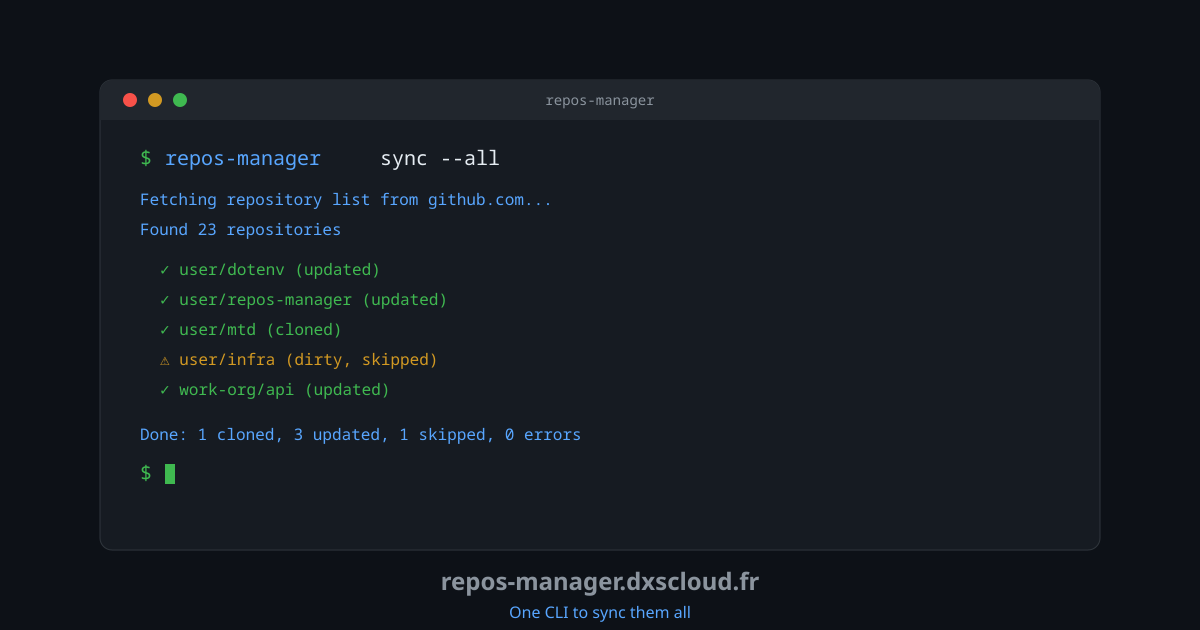
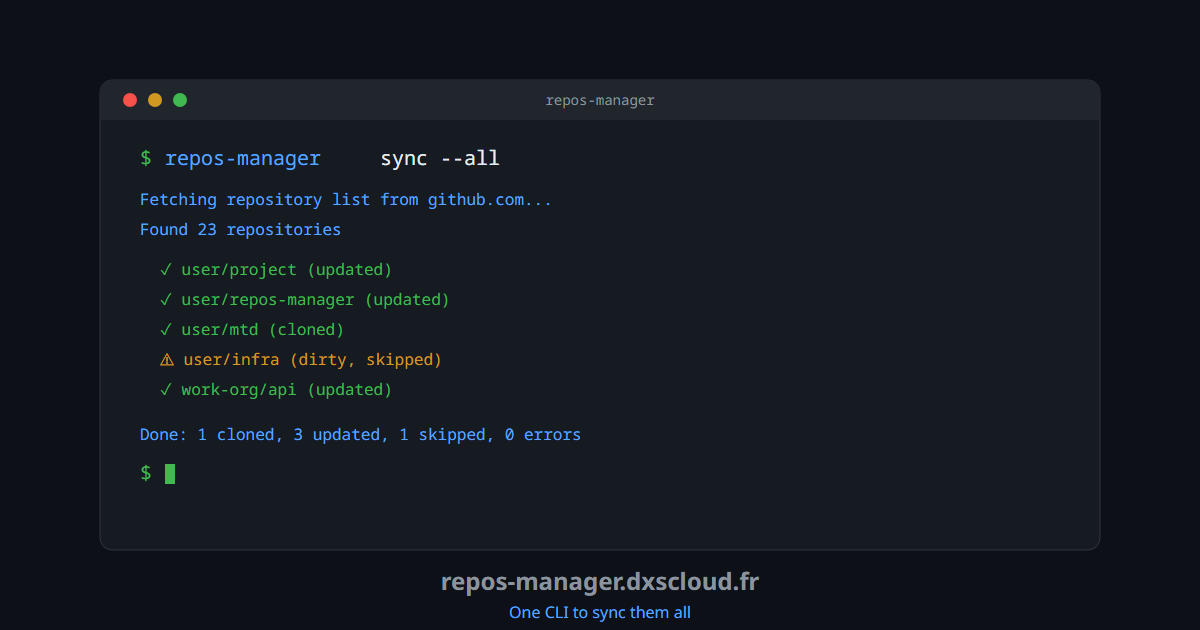
docs: drop the dotenv integration and its example repo names

diff --git a/site/src/docs/advanced.md b/site/src/docs/advanced.md
@@ -96,11 +96,3 @@ Symlinks are not followed.
 On Linux and macOS, the config directory (`~/.config/repos-manager/`) is created with mode `700` (owner-only access) and the Bitbucket API credentials file `bitbucket-creds` with mode `600`. On Windows these files inherit the ACLs of your user profile.
 
 Self-updates and every install script verify release archives against `SHA256SUMS` before installing anything.
-
-## Dotenv integration
-
-If you use [Dxsk/dotenv](https://github.com/Dxsk/dotenv) (GNU Stow-based dotfiles), install repos-manager from your bootstrap script with the install script:
-
-```bash
-curl -fsSL https://raw.githubusercontent.com/Dxsk/repos-manager/main/installers/install.sh | sh
-```

diff --git a/readme.md b/readme.md
@@ -25,7 +25,7 @@ It is a single native binary for Linux, macOS and Windows. At runtime it only ne
 ```console
 $ repos-manager sync --all
 $ repos-manager status
-  github.com/Dxsk/dotenv dirty
+  github.com/Dxsk/git-identity-manager dirty
   github.com/Dxsk/mtd ahead (+2)
   gitlab.com/work/api behind (-3)
 

diff --git a/site/src/docs/usage.md b/site/src/docs/usage.md
@@ -64,7 +64,7 @@ repos-manager status
 Output:
 
 ```bash
-  github.com/Dxsk/dotenv dirty
+  github.com/Dxsk/git-identity-manager dirty
   github.com/Dxsk/mtd ahead (+2)
   gitlab.com/work/api behind (-3)
 
